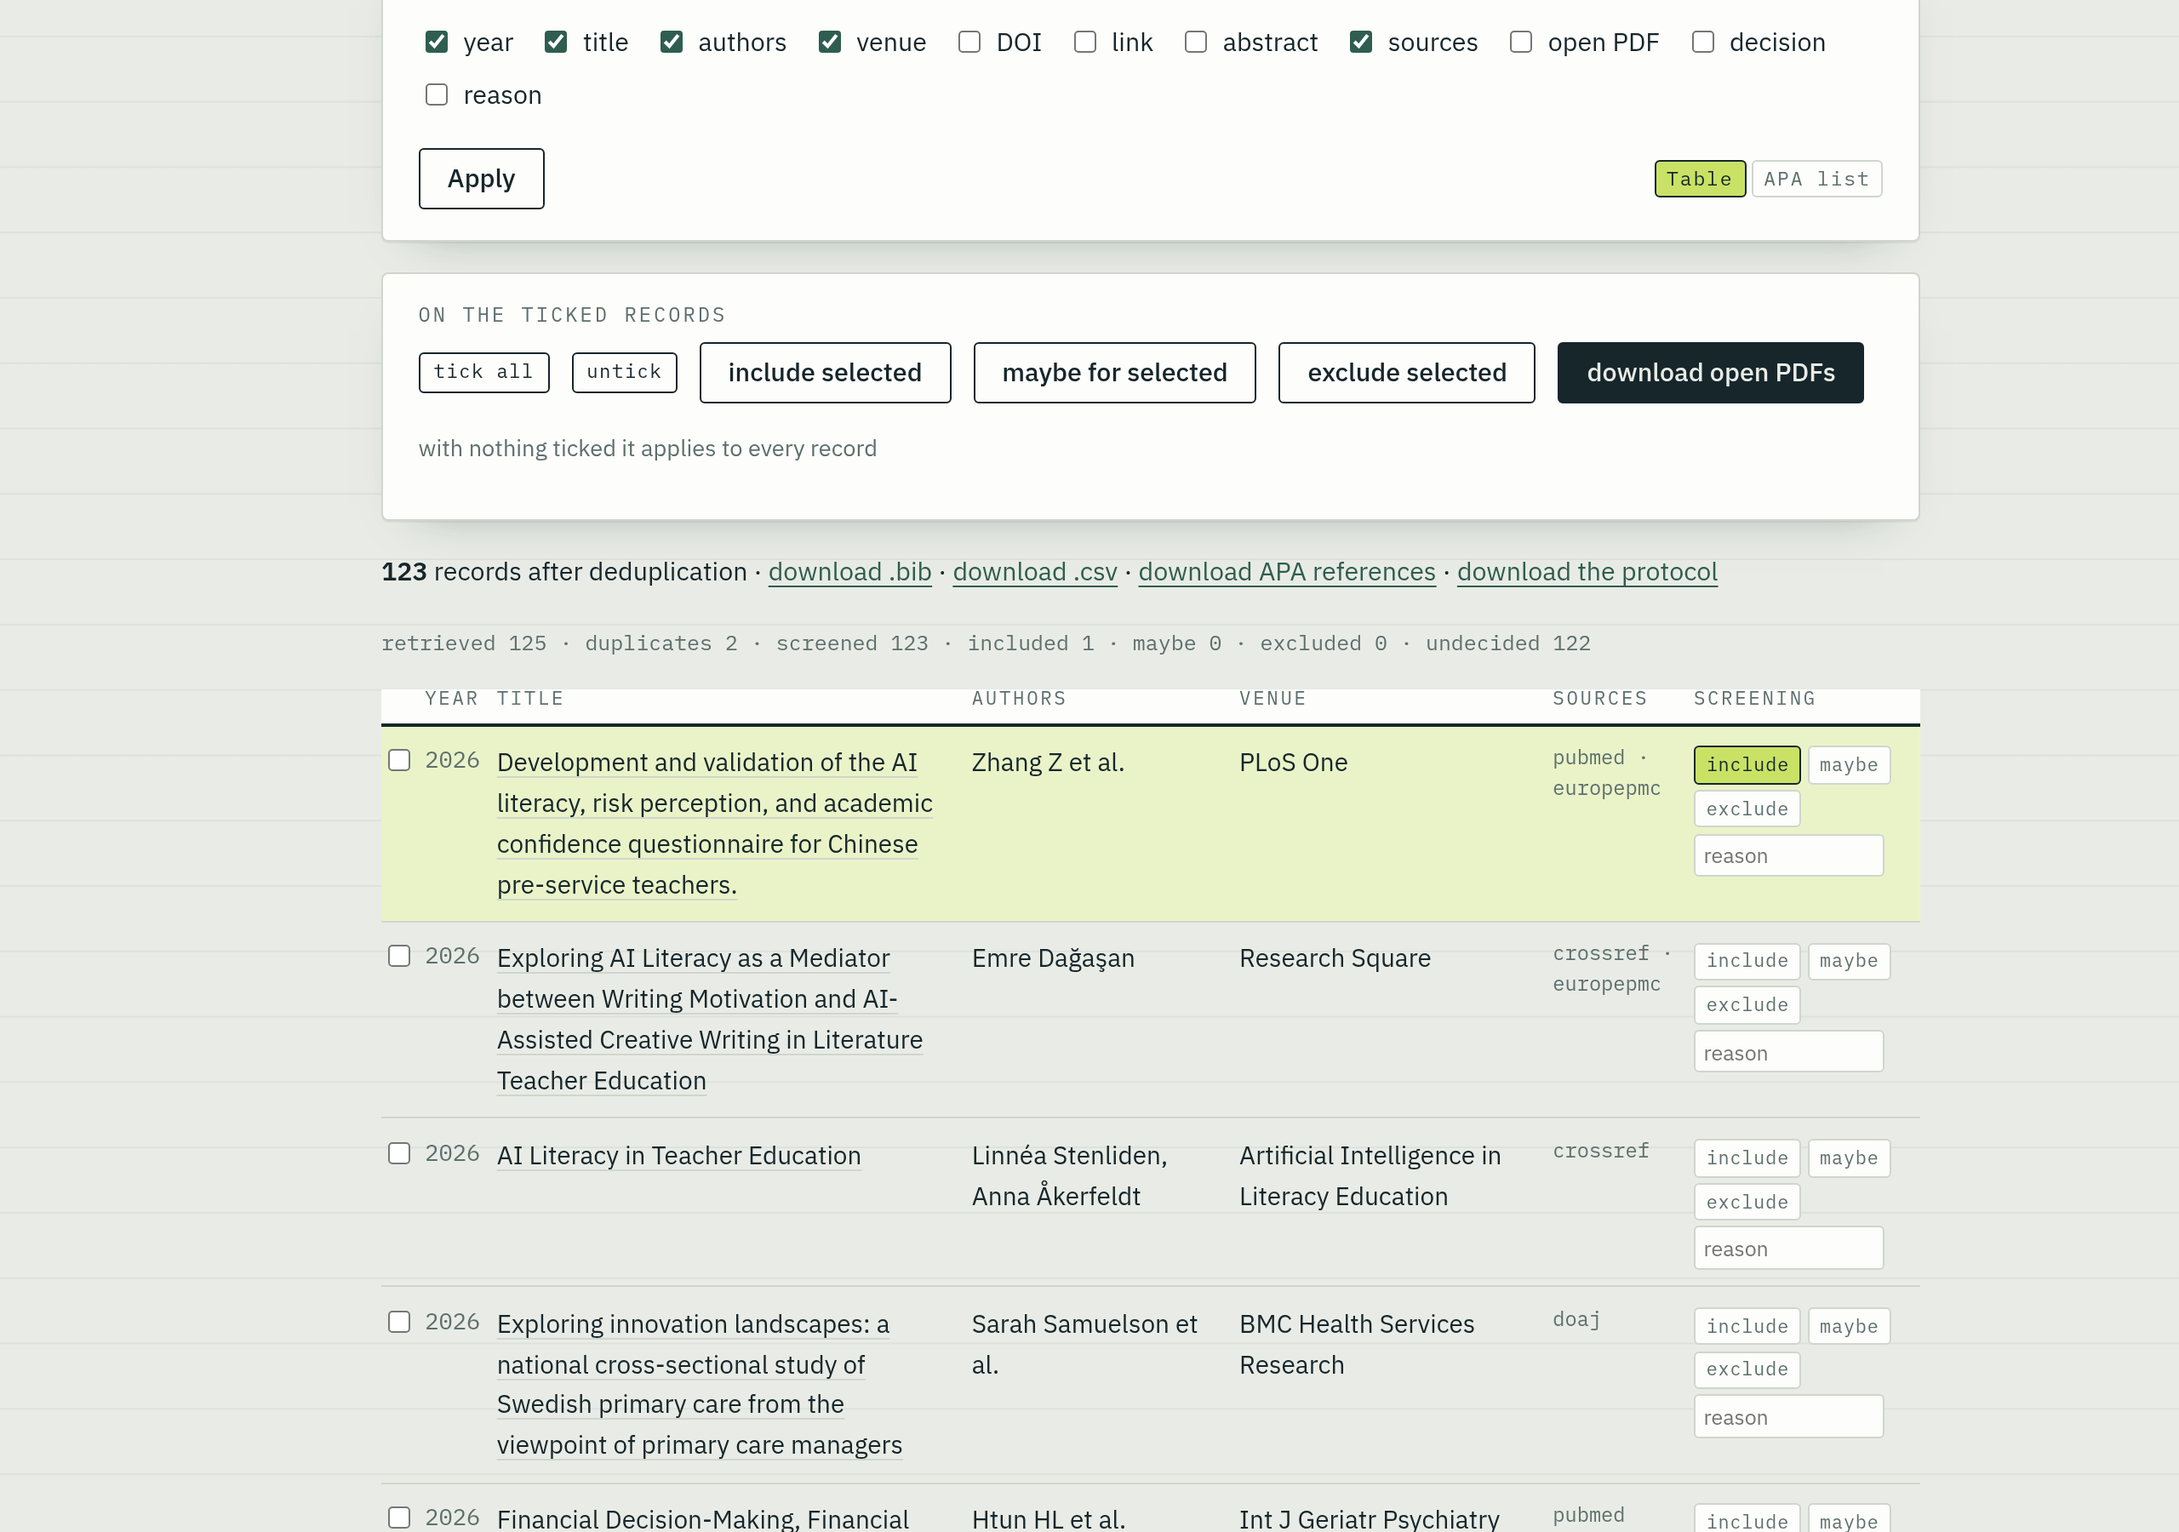
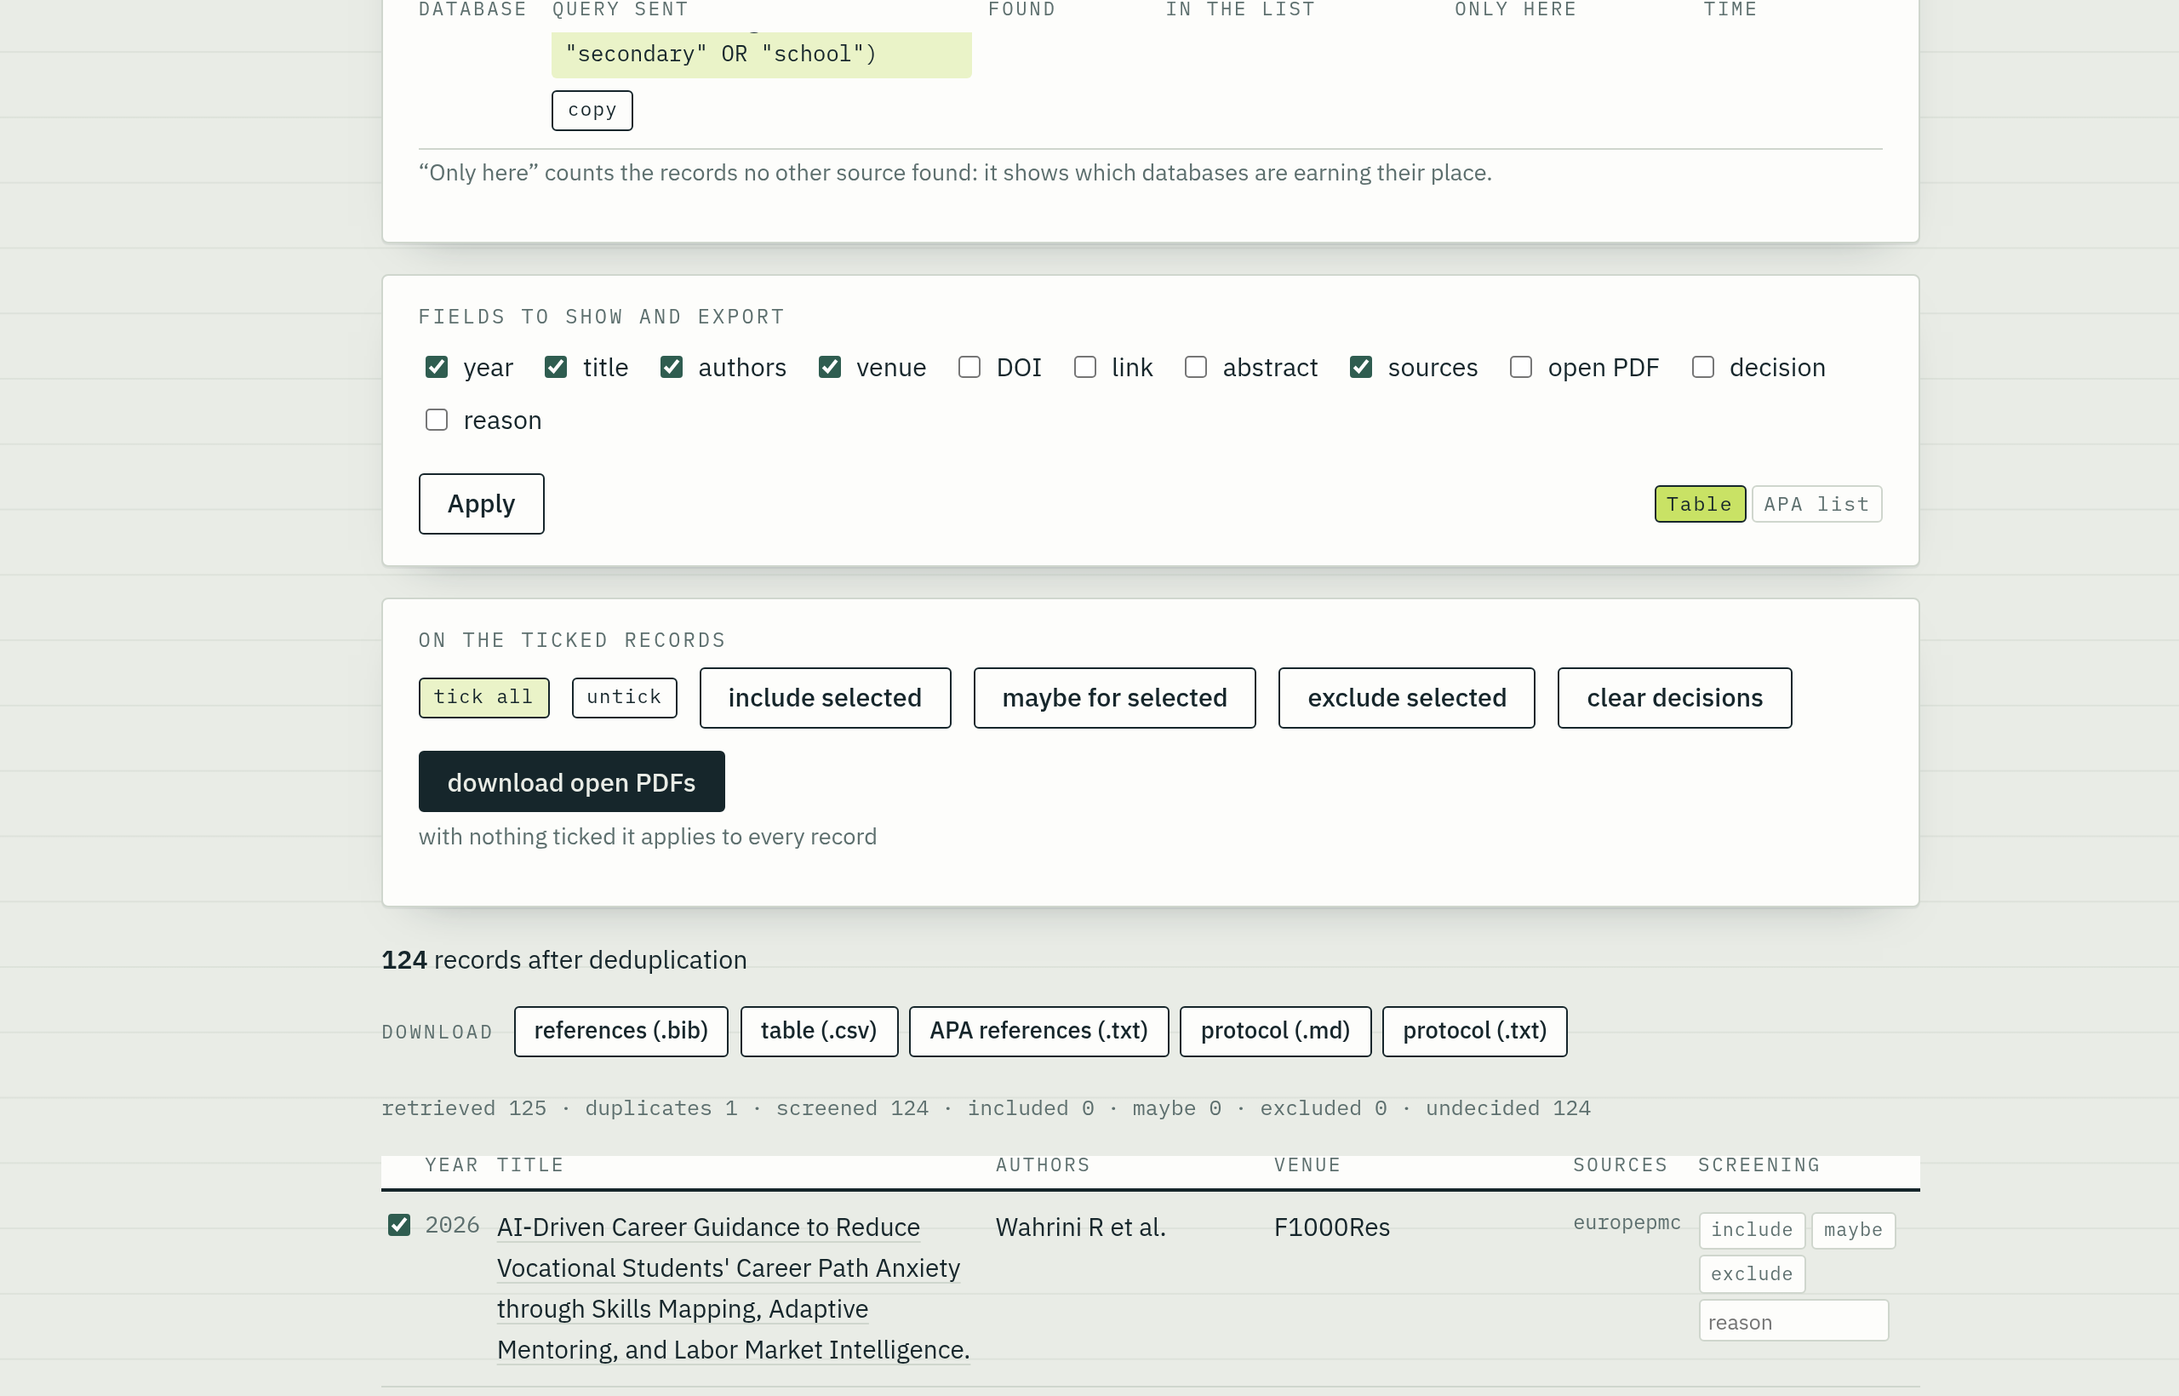
feat: comandi in blocco completi, protocollo anche in txt, export come tasti
- fra i comandi sui record spuntati arrivano «annulla le decisioni» e «manda
  a Zotero»: quest'ultimo rispetta la selezione, e senza spunte ricade sui
  record inclusi come prima;
- il protocollo di ricerca si scarica anche in testo semplice, senza tabelle
  Markdown: si incolla in una mail o in un documento senza ripulirlo;
- gli scaricamenti erano collegamenti in mezzo a una frase: ora sono cinque
  tasti in fila — riferimenti .bib, tabella .csv, riferimenti APA, protocollo
  .md, protocollo .txt.

187 test.

diff --git a/ricerca/templates/partials/elenco.html b/ricerca/templates/partials/elenco.html
@@ -33,12 +33,17 @@
   <div class="azioni">
     <button type="button" class="copia" onclick="spunta('{{ id_ricerca }}', true)">{{ t.bulk_select_all }}</button>
     <button type="button" class="copia" onclick="spunta('{{ id_ricerca }}', false)">{{ t.bulk_clear }}</button>
-    {% for stato, etichetta in (('incluso', t.bulk_include), ('forse', t.bulk_maybe), ('escluso', t.bulk_exclude)) %}
+    {% for stato, etichetta in (('incluso', t.bulk_include), ('forse', t.bulk_maybe), ('escluso', t.bulk_exclude), ('annulla', t.bulk_clear_decisions)) %}
     <button type="button" hx-post="/screening-massa/{{ id_ricerca }}"
             hx-include="#massa-{{ id_ricerca }}, #campi-{{ id_ricerca }}"
             hx-vals='{"stato": "{{ stato }}"}'
             hx-target="#blocco-{{ id_ricerca }}" hx-swap="outerHTML">{{ etichetta }}</button>
     {% endfor %}
+    {% if config.zotero_api_key and config.zotero_library_id %}
+    <button type="button" hx-post="/zotero-massa/{{ id_ricerca }}"
+            hx-include="#massa-{{ id_ricerca }}, #campi-{{ id_ricerca }}"
+            hx-target="#blocco-{{ id_ricerca }}" hx-swap="outerHTML">{{ t.bulk_zotero }}</button>
+    {% endif %}
     <button type="button" class="primario" hx-post="/pdf-massa/{{ id_ricerca }}"
             hx-include="#massa-{{ id_ricerca }}, #campi-{{ id_ricerca }}"
             hx-target="#blocco-{{ id_ricerca }}" hx-swap="outerHTML"

diff --git a/ricerca/templates/partials/tabella.html b/ricerca/templates/partials/tabella.html
@@ -1,9 +1,13 @@
 {% if works %}
-<p class="riepilogo"><b>{{ works|length }}</b> {{ t.summary_tail }} ·
-   <a href="/export/{{ id_ricerca }}.bib?campi={{ campi|join(',') }}">{{ t.download_bib }}</a> ·
-   <a href="/export/{{ id_ricerca }}.csv?campi={{ campi|join(',') }}">{{ t.download_csv }}</a> ·
-   <a href="/export/{{ id_ricerca }}.apa.txt">{{ t.download_apa }}</a> ·
-   <a href="/export/{{ id_ricerca }}.protocollo.md">{{ t.download_protocol }}</a></p>
+<p class="riepilogo"><b>{{ works|length }}</b> {{ t.summary_tail }}</p>
+<div class="scarica">
+  <span class="etichetta-scarica">{{ t.downloads_title }}</span>
+  <a class="tasto" href="/export/{{ id_ricerca }}.bib?campi={{ campi|join(',') }}">{{ t.download_bib_btn }}</a>
+  <a class="tasto" href="/export/{{ id_ricerca }}.csv?campi={{ campi|join(',') }}">{{ t.download_csv_btn }}</a>
+  <a class="tasto" href="/export/{{ id_ricerca }}.apa.txt">{{ t.download_apa_btn }}</a>
+  <a class="tasto" href="/export/{{ id_ricerca }}.protocollo.md">{{ t.download_protocol_md }}</a>
+  <a class="tasto" href="/export/{{ id_ricerca }}.protocollo.txt">{{ t.download_protocol_txt }}</a>
+</div>
 <p><span id="conteggi" class="conteggi">{{ t.screening_counts.format(**conteggi) }}</span></p>
 {% if config.zotero_api_key and config.zotero_library_id %}
 <div class="azioni">

diff --git a/ricerca/static/style.css b/ricerca/static/style.css
@@ -295,3 +295,13 @@ table.fonti-statistiche td { vertical-align: top; }
 .comandi .azioni { margin-top: .2rem; }
 th.spunta, td.spunta { width: 1.6rem; padding-right: .3rem; }
 td.spunta input { width: auto; accent-color: var(--verde); }
+
+/* ── barra degli scaricamenti ──────────────────────────────── */
+.scarica { display: flex; flex-wrap: wrap; align-items: center; gap: .4rem; margin: .3rem 0 1rem; }
+.etichetta-scarica { font: .72rem/1 var(--mono); letter-spacing: .12em; text-transform: uppercase; color: var(--inchiostro-tenue); margin-right: .3rem; }
+a.tasto {
+  font: 500 .85rem/1 var(--testo); text-decoration: none; color: var(--inchiostro);
+  background: var(--scheda); border: 1.5px solid var(--inchiostro); border-radius: 3px;
+  padding: .45rem .7rem;
+}
+a.tasto:hover { background: var(--evidenziatore-tenue); }

diff --git a/tests/test_comandi_massa.py b/tests/test_comandi_massa.py
@@ -112,3 +112,59 @@ def test_il_pannello_dei_campi_non_si_duplica():
     frammento = client.post(f"/risultati/{id_ricerca}", data={"vista": "tabella"}).text
     assert frammento.count("FIELDS TO SHOW AND EXPORT") <= 1
     assert frammento.count('id="campi-') == 1
+
+
+def test_annulla_le_decisioni_sui_selezionati():
+    id_ricerca = ricerca_salvata()
+    history.decide(id_ricerca, 0, "incluso", "utile")
+    history.decide(id_ricerca, 1, "escluso")
+
+    client.post(f"/screening-massa/{id_ricerca}", data={"stato": "annulla", "selezione": [0]})
+
+    record = history.record(id_ricerca)
+    assert record[0].decisione == ""
+    assert record[1].decisione == "escluso"   # non toccato
+
+
+def test_annullare_un_record_senza_decisione_non_cambia_nulla():
+    id_ricerca = ricerca_salvata()
+    client.post(f"/screening-massa/{id_ricerca}", data={"stato": "annulla", "selezione": [0, 1]})
+    assert all(w.decisione == "" for w in history.record(id_ricerca))
+
+
+def test_i_tasti_di_scaricamento_ci_sono_tutti():
+    id_ricerca = ricerca_salvata()
+    pagina = client.post(f"/risultati/{id_ricerca}", data={"vista": "tabella"}).text
+    for pezzo in (".bib", ".csv", ".apa.txt", ".protocollo.md", ".protocollo.txt"):
+        assert f"/export/{id_ricerca}{pezzo}" in pagina
+    assert 'class="tasto"' in pagina
+
+
+def test_il_protocollo_in_testo_semplice():
+    id_ricerca = ricerca_salvata()
+    history.decide(id_ricerca, 0, "incluso")
+    testo = client.get(f"/export/{id_ricerca}.protocollo.txt").text
+
+    assert testo.startswith("PROTOCOLLO DI RICERCA — AI literacy")
+    assert "query esatta" in testo
+    assert "inclusi:                1" in testo
+    assert "|" not in testo          # niente tabelle Markdown
+    assert "#" not in testo
+
+
+@respx.mock
+def test_zotero_in_blocco_manda_i_selezionati():
+    from ricerca import config as config_module
+    from ricerca.config import Config
+
+    config_module.save(Config(zotero_api_key="k", zotero_library_id="123"))
+    id_ricerca = ricerca_salvata(quanti=3)
+    rotta = respx.post("https://api.zotero.org/users/123/items").mock(
+        return_value=httpx.Response(200, json={"successful": {"0": {}}, "failed": {}})
+    )
+
+    pagina = client.post(f"/zotero-massa/{id_ricerca}", data={"selezione": [2]})
+
+    inviati = rotta.calls[0].request.content
+    assert b"Studio 2" in inviati and b"Studio 0" not in inviati
+    assert "Sent to Zotero" in pagina.text

diff --git a/ricerca/app.py b/ricerca/app.py
@@ -23,6 +23,7 @@ from .export import (
     apa,
     normalizza_campi,
     protocollo,
+    protocollo_testo,
     to_apa,
     to_bibtex,
     to_csv,
@@ -388,9 +389,47 @@ async def screening_massa(
 
     for indice in selezione:
         decisione = history.decisioni(id_ricerca).get(str(indice), {})
-        if decisione.get("stato") != stato:
+        gia_deciso = decisione.get("stato", "")
+        if stato == "annulla":
+            if gia_deciso:
+                history.decide(id_ricerca, indice, gia_deciso, decisione.get("motivo", ""))
+        elif gia_deciso != stato:
             history.decide(id_ricerca, indice, stato, decisione.get("motivo", ""))
     return _elenco(request, id_ricerca, campo, vista)
+
+
+@app.get("/export/{id_ricerca}.protocollo.txt", response_class=PlainTextResponse)
+async def export_protocollo_testo(id_ricerca: str):
+    voce = history.voce(id_ricerca) or {}
+    return PlainTextResponse(
+        protocollo_testo(voce, history.conteggi(id_ricerca)),
+        headers={"Content-Disposition": 'attachment; filename="protocollo-di-ricerca.txt"'},
+    )
+
+
+@app.post("/zotero-massa/{id_ricerca}", response_class=HTMLResponse)
+async def zotero_massa(
+    request: Request,
+    id_ricerca: str,
+    selezione: list[int] = Form(default=[]),
+    campo: list[str] = Form(default=[]),
+    vista: str = Form(default="tabella"),
+):
+    """Manda a Zotero i record spuntati; senza spunte, quelli inclusi."""
+
+    config = current_config()
+    works = history.record(id_ricerca)
+    scelti = [works[i] for i in selezione if i < len(works)]
+    da_inviare = scelti or [w for w in works if w.decisione == "incluso"] or works
+
+    try:
+        async with httpx.AsyncClient(headers={"User-Agent": search.USER_AGENT}) as client:
+            esito = await zotero_client.invia(da_inviare, config, client)
+        messaggio = i18n.strings(config.lang)["zotero_done"].format(**esito)
+    except (zotero_client.ZoteroError, httpx.HTTPError, OSError) as exc:
+        messaggio = i18n.strings(config.lang)["zotero_error"].format(errore=str(exc)[:160])
+
+    return _elenco(request, id_ricerca, campo, vista, esito_pdf=messaggio)
 
 
 @app.post("/pdf-massa/{id_ricerca}", response_class=HTMLResponse)

diff --git a/ricerca/i18n.py b/ricerca/i18n.py
@@ -159,6 +159,14 @@ STRINGS: dict[str, dict[str, str]] = {
         "bulk_maybe": "forse i selezionati",
         "bulk_exclude": "escludi i selezionati",
         "bulk_pdf": "scarica i PDF aperti",
+        "bulk_clear_decisions": "annulla le decisioni",
+        "bulk_zotero": "manda a Zotero",
+        "downloads_title": "Scarica",
+        "download_protocol_md": "protocollo (.md)",
+        "download_protocol_txt": "protocollo (.txt)",
+        "download_bib_btn": "riferimenti (.bib)",
+        "download_csv_btn": "tabella (.csv)",
+        "download_apa_btn": "riferimenti APA (.txt)",
         "bulk_pdf_all_hint": "senza spunte vale per tutti i record",
         "pdf_bulk_done": "PDF scaricati: {presi} · non riusciti: {falliti}",
         "waiting_pdf": "scaricamento dei PDF…",
@@ -366,6 +374,14 @@ STRINGS: dict[str, dict[str, str]] = {
         "bulk_maybe": "maybe for selected",
         "bulk_exclude": "exclude selected",
         "bulk_pdf": "download open PDFs",
+        "bulk_clear_decisions": "clear decisions",
+        "bulk_zotero": "send to Zotero",
+        "downloads_title": "Download",
+        "download_protocol_md": "protocol (.md)",
+        "download_protocol_txt": "protocol (.txt)",
+        "download_bib_btn": "references (.bib)",
+        "download_csv_btn": "table (.csv)",
+        "download_apa_btn": "APA references (.txt)",
         "bulk_pdf_all_hint": "with nothing ticked it applies to every record",
         "pdf_bulk_done": "PDFs downloaded: {presi} · failed: {falliti}",
         "waiting_pdf": "downloading the PDFs…",

diff --git a/ricerca/export.py b/ricerca/export.py
@@ -201,3 +201,39 @@ def protocollo(voce: dict, conteggi: dict) -> str:
         "",
     ]
     return "\n".join(righe)
+
+
+def protocollo_testo(voce: dict, conteggi: dict) -> str:
+    """Lo stesso protocollo senza marcatura: si incolla ovunque."""
+
+    righe = [
+        f"PROTOCOLLO DI RICERCA — {voce.get('topic') or 's.t.'}",
+        "",
+        f"Data della ricerca: {str(voce.get('quando', '')).replace('T', ' ')}",
+        "",
+        "BLOCCHI CONCETTUALI",
+    ]
+    for blocco in voce.get("blocchi", []):
+        righe.append(f"  {blocco.get('label', '')}: " + ", ".join(blocco.get("terms", [])))
+    if voce.get("mesh"):
+        righe.append("  MeSH: " + ", ".join(voce["mesh"]))
+
+    righe += ["", "INTERROGAZIONI"]
+    for fonte in voce.get("fonti", []):
+        esito = fonte.get("errore") or f"{fonte.get('trovati', 0)} risultati"
+        righe.append(f"  {fonte.get('etichetta', '')} — {esito}")
+        righe.append(f"    {fonte.get('query', '')}")
+
+    righe += [
+        "",
+        "SELEZIONE",
+        f"  record recuperati:      {conteggi.get('grezzi', 0)}",
+        f"  duplicati rimossi:      {conteggi.get('duplicati', 0)}",
+        f"  record esaminati:       {conteggi.get('dopo_deduplica', 0)}",
+        f"  inclusi:                {conteggi.get('incluso', 0)}",
+        f"  da valutare:            {conteggi.get('forse', 0)}",
+        f"  esclusi:                {conteggi.get('escluso', 0)}",
+        f"  non ancora valutati:    {conteggi.get('da_valutare', 0)}",
+        "",
+    ]
+    return "\n".join(righe)

diff --git a/README.md b/README.md
@@ -24,10 +24,10 @@ banca dati, poi esegue le query ed esporta i risultati.
    inviata, quanti record ha portato, quanti ne sono rimasti dopo la deduplica,
    quanti li ha trovati **solo lei** e in quanto tempo.
 5. **Selezione** — ogni record si marca *incluso*, *forse* o *escluso* con un
-   motivo, uno per volta o **in blocco** sui record spuntati; i PDF aperti si
-   scaricano tutti insieme. I conteggi seguono il diagramma di flusso PRISMA e
-   il **protocollo** in Markdown raccoglie stringhe, numeri e decisioni per la
-   sezione «Metodo».
+   motivo, uno per volta o **in blocco** sui record spuntati — includi, forse,
+   escludi, annulla le decisioni, manda a Zotero, scarica i PDF aperti. I conteggi seguono il diagramma di flusso PRISMA e
+   il **protocollo** raccoglie stringhe, numeri e decisioni per la sezione
+   «Metodo», in Markdown o in testo semplice.
 6. **Cronologia** — ogni ricerca resta salvata con la sua strategia e i suoi
    record: si riapre, si riesporta e se ne scaricano i PDF senza ripeterla.
 7. **Biblioteca** — i PDF scaricati sono cercabili a testo pieno.
@@ -128,7 +128,7 @@ L'interfaccia parte in inglese e si porta in italiano con i pulsanti
 
 ```bash
 uv venv && uv pip install -e ".[dev]"
-.venv/bin/pytest -q                     # 182 test, nessuno tocca la rete
+.venv/bin/pytest -q                     # 187 test, nessuno tocca la rete
 .venv/bin/pytest -m rete tests/contratto  # controlla le API vere (CI settimanale)
 .venv/bin/uvicorn ricerca.app:app --reload --port 8000
 ```
@@ -173,10 +173,10 @@ then runs the queries and exports the results.
    records it returned, how many survived deduplication, how many **only it**
    found, and how long it took.
 5. **Screening** — mark each record *include*, *maybe* or *exclude* with a
-   reason, one at a time or **in bulk** on the ticked records; open-access PDFs
-   download all at once. The counters follow the PRISMA flow diagram and the
-   **protocol** in Markdown gathers strings, numbers and decisions for your
-   Methods section.
+   reason, one at a time or **in bulk** on the ticked records — include, maybe,
+   exclude, clear decisions, send to Zotero, download the open PDFs. The counters follow the PRISMA flow diagram and the
+   **protocol** gathers strings, numbers and decisions for your Methods
+   section, as Markdown or plain text.
 6. **History** — every search is stored with its strategy and its records:
    reopen it, export it again, fetch its PDFs without running it twice.
 7. **Library** — the downloaded PDFs are searchable in full text.
@@ -268,7 +268,7 @@ system. Both choices are remembered.
 
 ```bash
 uv venv && uv pip install -e ".[dev]"
-.venv/bin/pytest -q                       # 182 tests, none touches the network
+.venv/bin/pytest -q                       # 187 tests, none touches the network
 .venv/bin/pytest -m rete tests/contratto  # checks the real APIs (weekly in CI)
 .venv/bin/uvicorn ricerca.app:app --reload --port 8000
 ```
